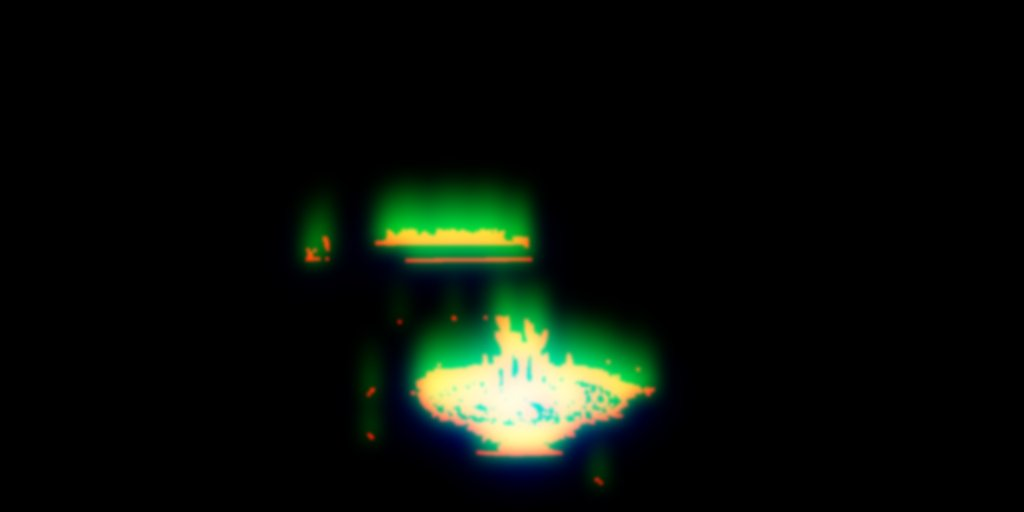
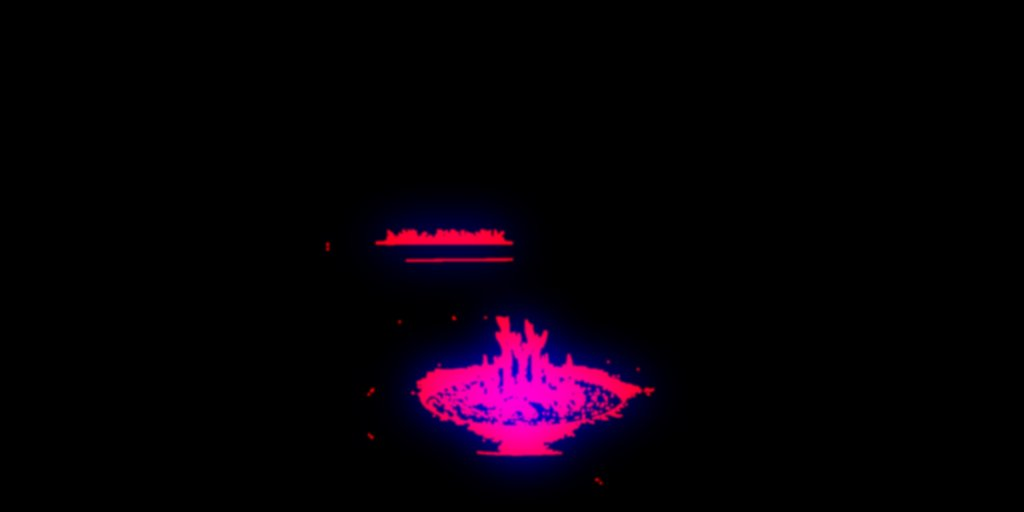
Linden: drop fire warp and hover ripple, per-stop parallax to stop fire-pit stretching
Claude-Session: https://claude.ai/code/session_01YUM58pQzzCwZw7wn9K1kUG

Changed region(s): [[0.2812, 0.3438, 0.6562, 0.9375]]

diff --git a/linden-pools/index.html b/linden-pools/index.html
@@ -164,16 +164,16 @@ const STOPS=[
   {id:'arrival', k:'Arrival', h:'The gate <em>opens.</em>', p:'Twenty minutes after sunset. The path is lit, the water is warm, and nobody\'s home but you.', night:0.55,
     fx:{fireflies:.5, fire:{op:0}, pit:{op:0}, steam:{op:0}, bubbles:0},
     labels:[{yaw:-46,pitch:-20,b:'Path lighting',s:'warm 2700K, dusk to dawn'},{yaw:0,pitch:-3,b:'The pool',s:'sixty feet ahead'}]},
-  {id:'deck', k:'The deck', h:'Stand at <em>the edge.</em>', p:'Forty feet of dark pebble, a spa spilling over glass tile, and the first lights of the evening coming on under the water.', night:0.6,
+  {id:'deck', k:'The deck', h:'Stand at <em>the edge.</em>', parallax:0.6, walk:7, p:'Forty feet of dark pebble, a spa spilling over glass tile, and the first lights of the evening coming on under the water.', night:0.6,
     fx:{fireflies:.4, fire:{op:0}, pit:{op:0}, steam:{yaw:41,pitch:5,r:40,op:.7}, bubbles:0},
     labels:[{yaw:-50,pitch:-8,b:'Tanning ledge',s:'9 inches of water, two loungers'},{yaw:46,pitch:-1,b:'Raised spa',s:'104°, glass-tile spillover'},{yaw:0,pitch:3,b:'Fire feature',s:'linear burner, 40,000 BTU'}]},
-  {id:'water', k:'The water', h:'Go <em>under.</em>', p:'Ninety degrees in October. Pebble floor, LED lights, and the quietest place in the whole yard.', night:0.5, under:true,
+  {id:'water', k:'The water', h:'Go <em>under.</em>', parallax:0.45, walk:6, p:'Ninety degrees in October. Pebble floor, LED lights, and the quietest place in the whole yard.', night:0.5, under:true,
     fx:{fireflies:0, fire:{op:0}, pit:{op:0}, steam:{op:0}, bubbles:1},
     labels:[{yaw:0,pitch:-22,b:'Pebble finish',s:'midnight blue, 15-year'},{yaw:-21,pitch:-7,b:'Sun shelf',s:'from below'}]},
-  {id:'night', k:'Night', h:'Then it gets <em>dark.</em>', p:'This is the hour you built it for. Lights on, fire on, the house glowing behind you.', night:1, hold:true,
+  {id:'night', k:'Night', h:'Then it gets <em>dark.</em>', parallax:0.6, walk:7, p:'This is the hour you built it for. Lights on, fire on, the house glowing behind you.', night:1, hold:true,
     fx:{fireflies:1, fire:{op:0}, pit:{op:0}, steam:{yaw:41,pitch:5,r:40,op:.8}, bubbles:0},
     labels:[{yaw:-42,pitch:-8,b:'Landscape lighting',s:'every path, every bed'},{yaw:46,pitch:-2,b:'Automation',s:'lights, heat and fire from one app'}]},
-  {id:'fire', k:'The fire pit', h:'Sit <em>a minute.</em>', p:'Everything you walked past is one plan. It starts with a text.', night:1, cta:true,
+  {id:'fire', k:'The fire pit', h:'Sit <em>a minute.</em>', p:'Everything you walked past is one plan. It starts with a text.', night:1, cta:true, parallax:0.28, walk:2.5,
     fx:{fireflies:.8, fire:{op:0}, pit:{yaw:0,pitch:-22,r:21,op:.45}, steam:{yaw:32,pitch:0,r:46,op:.35}, bubbles:0},
     labels:[]}
 ];
@@ -203,7 +203,7 @@ const sphereVS=`
   void main(){
     vec3 d=normalize(position); vDir=d; vUv2=dirToUv(d);
     vec2 cu=clamp(vUv2, 0.0, 1.0);
-    float dep = hasDepth>0.5 ? texture2D(depthMap, cu).r : 0.0;
+    float dep = hasDepth>0.5 ? texture2D(depthMap, cu).r : 0.0; dep = dep*dep*(3.0-2.0*dep)*0.85 + dep*0.15; dep = min(dep, 0.82);
     float r = 60.0*(1.0 - parallax*dep);
     gl_Position = projectionMatrix * modelViewMatrix * vec4(d*r, 1.0);
   }`;
@@ -328,21 +328,21 @@ const postMat=new THREE.ShaderMaterial({uniforms:{fov:{value:new THREE.Vector2(T
         vec2 g = vec2(hx-h0, hy-h0);
         vec2 tx=vec2(1.0/512.0,1.0/256.0); float hl=texture2D(height,eq-vec2(tx.x,0.)).r, hr=texture2D(height,eq+vec2(tx.x,0.)).r, hu=texture2D(height,eq+vec2(0.,tx.y)).r, hd=texture2D(height,eq-vec2(0.,tx.y)).r;
         vec2 rg = vec2(hr-hl, hu-hd);
-        off = (g*0.012*(0.25+persp) + rg*0.05) * m * ripple; off.x*=0.35;   // reflections slide mostly vertically
-        float ring = smoothstep(0.004,0.03,length(rg));
+        off = (g*0.012*(0.25+persp) + rg*0.02) * m * ripple; off.x*=0.35;   // reflections slide mostly vertically
+        float ring = smoothstep(0.006,0.04,length(rg))*persp;
         glint = (pow(clamp(1.0-abs(g.y*6.0),0.0,1.0),10.0)*0.5*persp + ring*0.6) * m;
       }
       // ---------- fire: shimmer + flicker inside the real flames ----------
       vec3 fa = inside ? texture2D(fireA, eq).rgb : vec3(0.0); vec3 fb = inside ? texture2D(fireB, eq).rgb : vec3(0.0); vec3 fm = mix(fa, fb, fireMix);
       float flick = 0.86 + 0.22*noise(vec2(t*2.6, 1.3)) + 0.12*noise(vec2(t*9.0, 7.7));
-      if (fm.g>0.01){
-        float n1 = noise(eq*vec2(90.0,160.0) + vec2(0.0, -t*2.6)) - 0.5;      // heat rising through the air above the flames
-        float n2 = noise(eq*vec2(220.0,380.0) + vec2(t*0.7, -t*6.5)) - 0.5;    // the flames themselves, fast and fine
-        off += vec2(n1*0.9, n1*0.5)*0.009*fm.g + vec2(n2, n2*1.6)*0.006*fm.r;
+      if (fm.r>0.02){
+        // no warping: only a faint internal lick inside the brightest part of the flames
+        float n2 = noise(eq*vec2(260.0,420.0) + vec2(t*0.5, -t*7.0)) - 0.5;
+        off += vec2(0.0, n2)*0.0022*fm.r*fm.r;
       }
       vec3 c=texture2D(tex, vUv+off).rgb;
       c += vec3(1.0,0.93,0.8)*glint*0.35;
-      if (fm.b>0.003){ c *= 1.0 + fm.r*(flick-1.0)*1.6 + fm.b*(flick-1.0)*0.5; c += vec3(1.0,0.5,0.15)*fm.b*0.22*flick; }
+      if (fm.b>0.003){ float fl2 = 0.9 + 0.2*noise(vec2(t*3.1, eq.x*14.0)); c *= 1.0 + fm.r*(fl2-1.0)*1.4 + fm.b*(flick-1.0)*0.45; c += vec3(1.0,0.5,0.15)*fm.b*0.2*flick; }
       // ---------- bloom ----------
       c += texture2D(bloom, vUv+off*0.5).rgb*0.55;
       if (under>0.001){
@@ -387,12 +387,12 @@ let p=0, tp=0; // walk progress 0..N-1
 let entered=false, lastScrollAt=0, sound=false, enterAt=0;
 const v3=new THREE.Vector3(), q=new THREE.Quaternion(), e=new THREE.Euler();
 function setLook(x,y){ tYaw = x*0.38; tPitch = -y*0.1; }
-window.addEventListener('pointermove', (ev)=>{ if (ev.pointerType==='touch') return; mouseX=(ev.clientX/innerWidth)*2-1; mouseY=(ev.clientY/innerHeight)*2-1; setLook(mouseX,mouseY); dropAt(ev.clientX, ev.clientY, 0.012); }, {passive:true});
-window.addEventListener('pointerdown', (ev)=>{ if (ev.target.closest('.hud,#cta,#intro')) return; dropAt(ev.clientX, ev.clientY, 0.22); });
+window.addEventListener('pointermove', (ev)=>{ if (ev.pointerType==='touch') return; mouseX=(ev.clientX/innerWidth)*2-1; mouseY=(ev.clientY/innerHeight)*2-1; setLook(mouseX,mouseY); }, {passive:true});
+window.addEventListener('pointerdown', (ev)=>{ if (ev.target.closest('.hud,#cta,#intro')) return; dropAt(ev.clientX, ev.clientY, 0.05); });
 // touch: horizontal drag looks, vertical scroll walks
 let tx0=0, tyaw0=0;
 holder.addEventListener('touchstart', (ev)=>{ tx0=ev.touches[0].clientX; tyaw0=tYaw; }, {passive:true});
-holder.addEventListener('touchmove', (ev)=>{ const dx=(ev.touches[0].clientX-tx0)/innerWidth; tYaw=THREE.MathUtils.clamp(tyaw0 - dx*1.4, -0.5, 0.5); dropAt(ev.touches[0].clientX, ev.touches[0].clientY, 0.03); }, {passive:true});
+holder.addEventListener('touchmove', (ev)=>{ const dx=(ev.touches[0].clientX-tx0)/innerWidth; tYaw=THREE.MathUtils.clamp(tyaw0 - dx*1.4, -0.5, 0.5); }, {passive:true});
 // gyro (iOS asks on first tap)
 function enableGyro(){ const go=()=>window.addEventListener('deviceorientation', (ev)=>{ if (ev.gamma==null) return; const g=THREE.MathUtils.degToRad(ev.gamma), b=THREE.MathUtils.degToRad(ev.beta); tYaw = THREE.MathUtils.clamp(-g*0.9,-0.5,0.5); tPitch = THREE.MathUtils.clamp((b-Math.PI/4)*0.5,-0.15,0.15); }, {passive:true});
   if (typeof DeviceOrientationEvent!=='undefined' && typeof DeviceOrientationEvent.requestPermission==='function'){ DeviceOrientationEvent.requestPermission().then((r)=>{ if (r==='granted') go(); }).catch(()=>{}); } else if ('ondeviceorientation' in window && matchMedia('(pointer:coarse)').matches) go(); }
@@ -401,7 +401,7 @@ function screenToDir(x,y){ v3.set((x/innerWidth)*2-1, -(y/innerHeight)*2+1, 0.5)
 const FOVX=THREE.MathUtils.degToRad(140), FOVY=THREE.MathUtils.degToRad(70);
 function dirToUv(d){ return [Math.atan2(d.x,-d.z)/FOVX+0.5, Math.asin(THREE.MathUtils.clamp(d.y,-1,1))/FOVY+0.5]; }
 let dropToggle=0;
-function dropAt(x,y,strength){ const d=screenToDir(x,y); const uv=dirToUv(d); const u=dropToggle++%2? simMat.uniforms.drop2.value : simMat.uniforms.drop.value; u.set(uv[0],uv[1],strength); }
+function dropAt(x,y,strength){ const d=screenToDir(x,y); const uv=dirToUv(d); if (uv[0]>0.74 || uv[1]>0.5) return; const u=dropToggle++%2? simMat.uniforms.drop2.value : simMat.uniforms.drop.value; u.set(uv[0],uv[1],strength); }
 
 /* scroll → walk */
 const track=document.getElementById('track'); track.style.height=((N-1)*240+100)+'vh';
@@ -425,15 +425,16 @@ function frame(now){
   const ky=1-Math.exp(-dt*3.2); yaw+=(tYaw+Math.sin(t*0.0003)*0.025-yaw)*ky; pitch+=(tPitch+Math.sin(t*0.00023)*0.012-pitch)*ky;
   headX+=(mouseX-headX)*ky; headY+=(mouseY-headY)*ky;
   // camera: look + small head offset + forward walk within the sphere
-  const walk = f<0.6 ? THREE.MathUtils.smoothstep(f,0,0.6)*9.0 : 9.0;         // 0 → 9 units forward over the stop
+  const WALK=(s.walk!=null? s.walk: 9.0); const walk = f<0.6 ? THREE.MathUtils.smoothstep(f,0,0.6)*WALK : WALK;         // forward over the stop
   const xf = THREE.MathUtils.smoothstep(f,0.6,1.0);                           // crossfade to next stop
-  const walk2 = s2.hold ? walk : -7.0*(1-xf);                                  // next stop starts 7 units back and glides in (or holds the same camera for a time-lapse dissolve)
+  const walk2 = s2.hold ? walk : -(s2.walk!=null? s2.walk*0.8 : 7.0)*(1-xf);                                  // next stop starts 7 units back and glides in (or holds the same camera for a time-lapse dissolve)
   const dip = (!s.under && s2.under) ? -0.5*Math.sin(Math.PI*xf)*xf : 0.0; e.set(pitch+dip, -yaw, 0, 'YXZ'); q.setFromEuler(e); camera.quaternion.copy(q);
   const fwd=new THREE.Vector3(0,0,-1).applyQuaternion(q), right=new THREE.Vector3(1,0,0).applyQuaternion(q);
   camera.position.set(0,0,0).addScaledVector(right, headX*1.6).addScaledVector(new THREE.Vector3(0,1,0), -headY*0.6);
   camera.fov = (innerWidth<innerHeight? 62:54) - 4*THREE.MathUtils.smoothstep(f,0,1) + (s.under?3:0); camera.updateProjectionMatrix();
   // spheres
   const A=stopTex[i], B=stopTex[Math.min(N-1,i+1)];
+  sphA.material.uniforms.parallax.value=(s.parallax!=null? s.parallax: 0.72); sphB.material.uniforms.parallax.value=(s2.parallax!=null? s2.parallax: 0.72);
   sphA.material.uniforms.map.value=A.pano; sphA.material.uniforms.depthMap.value=A.depth; sphA.material.uniforms.hasDepth.value=A.depth?1:0; sphA.material.uniforms.opacity.value=1; const gate = entered ? THREE.MathUtils.smoothstep((t-enterAt)/2600,0,1) : 0.0; sphA.material.uniforms.exposure.value=(1.0-0.15*xf)*(0.15+0.85*gate);
   sphA.position.copy(fwd).multiplyScalar(-walk);     // moving the sphere back == camera walking forward
   sphB.material.uniforms.map.value=B.pano; sphB.material.uniforms.depthMap.value=B.depth; sphB.material.uniforms.hasDepth.value=B.depth?1:0; sphB.material.uniforms.opacity.value= (i<N-1)? xf : 0; sphB.material.uniforms.exposure.value=1.0; sphB.visible = i<N-1 && xf>0.001;
